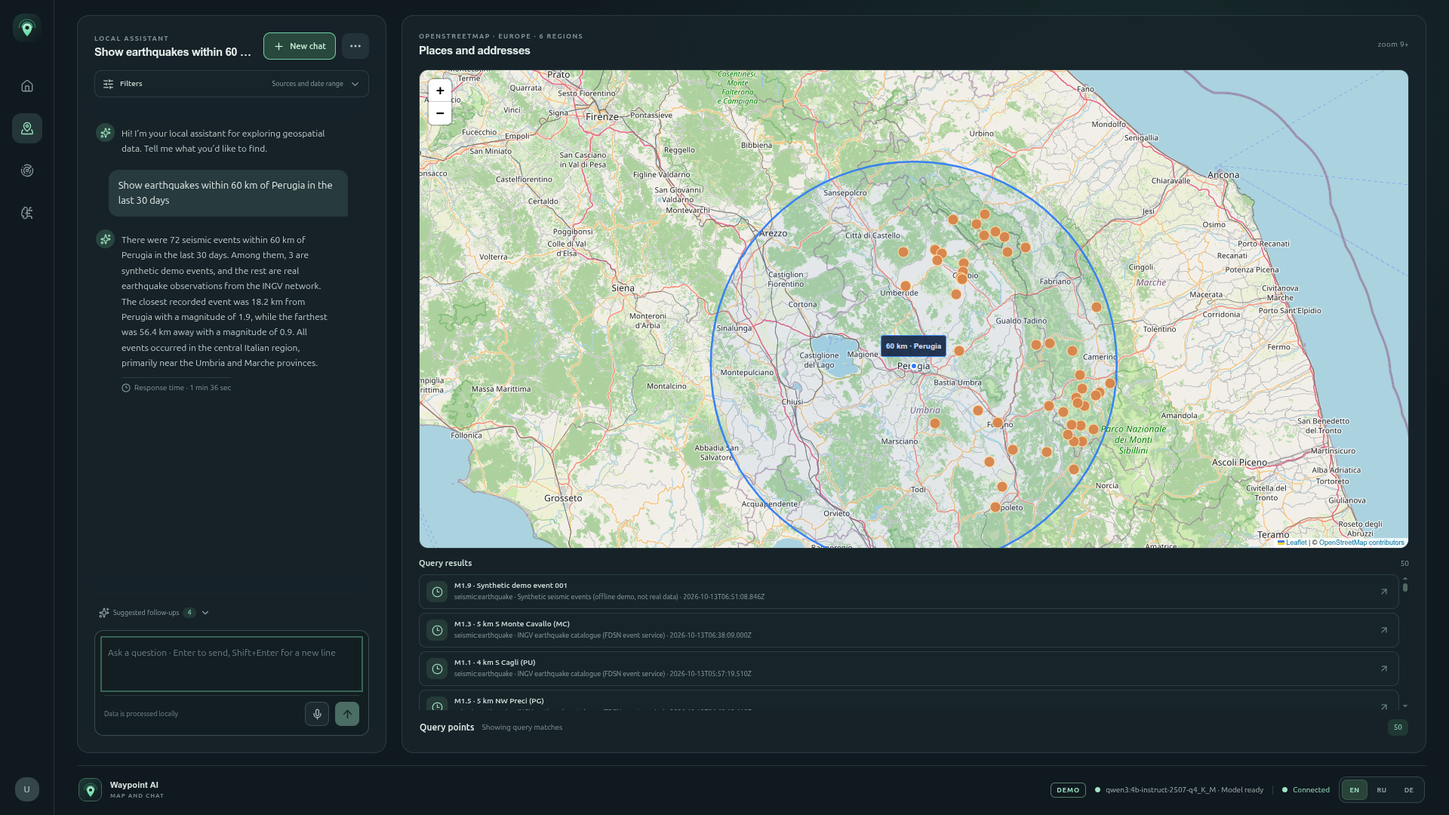
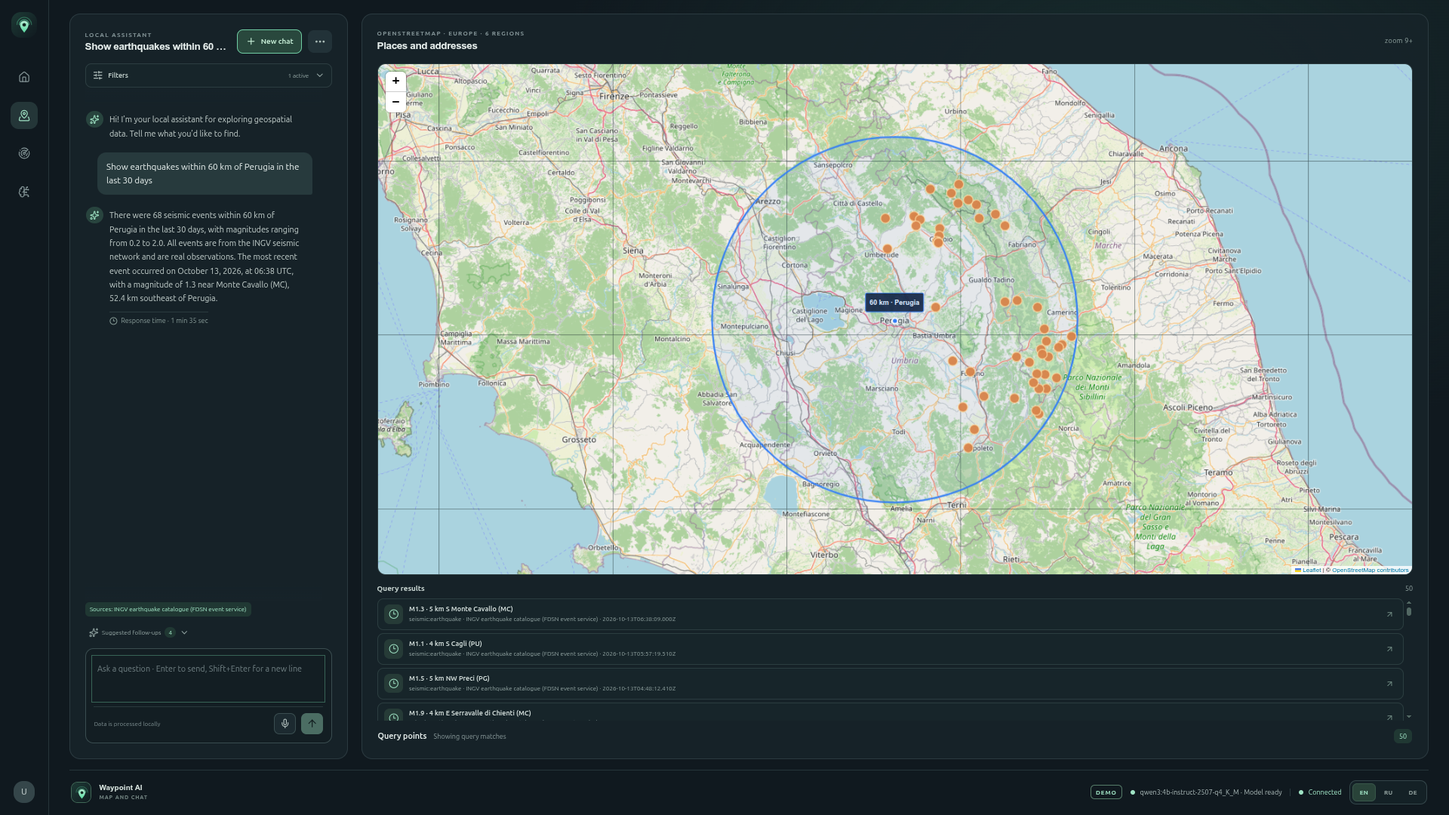
Lead the docs with grounded answers and list known issues

diff --git a/docs/code-review.md b/docs/code-review.md
@@ -1,10 +1,10 @@
-# Code review: Investigation Workspace
+# Known issues and fixes
 
-Status: review of the investigation feature diff (Phase 5). Two independent reviewers read the code: one covered the backend (security, data integrity, concurrency, contracts) and one the frontend (async state, provenance, accessibility). Every finding below was checked against the code before it was fixed or left open. Unrelated uncommitted work in the tree (the voice feature) was out of scope.
+This is the issue log for the event explorer and the parts of the assistant it touches: what was found while building and testing it, how each issue was fixed, and what is still open. Each entry was checked against the code before it was fixed or left open.
 
-Verification after the fixes: `npm test` passes 77 tests (8 skipped database tests), `npm run test:db` passes 8 PostgreSQL tests on a disposable database, `npm run typecheck` and `npm run build` pass without warnings, and a live INGV import ran successfully against the new HTTP code.
+Current verification: `npm test` and `npm run test:db` (PostgreSQL, disposable database) pass in CI together with `npm run typecheck` and `npm run build`; a live INGV import runs against the HTTP code.
 
-No Critical findings. No SQL injection was found: every value is a bind parameter and dynamic SQL fragments are constants. The external source URL comes only from an allowlisted environment value.
+No SQL injection was found: every value is a bind parameter and dynamic SQL fragments are constants. The external source URL comes only from an allowlisted environment value.
 
 ## High
 
@@ -18,14 +18,14 @@ No Critical findings. No SQL injection was found: every value is a bind paramete
 | # | Area and path | Issue | Impact | Resolution |
 |---|---|---|---|---|
 | M1 | Null revisions — `backend/src/sources/ingv/ingv.adapter.ts` | Events without `originId` got `revision: null`, and `NULL IS DISTINCT FROM NULL` is false. | Corrections to such events would never be stored. | **Fixed.** A content hash of the normalized fields is used as the revision. Test added. |
-| M2 | Interrupted imports — `backend/src/server.ts`, `backend/src/data/event-import.repository.ts` | A process exit during an import left the run `running`. | The unique "one running import" index blocked the source for up to 30 minutes. | **Fixed.** On startup, runs left `running` are marked failed with `interrupted`. The 30-minute stale rule stays as a backstop. |
+| M2 | Interrupted imports — `backend/src/server.ts`, `backend/src/data/event-import.repository.ts` | A process exit during an import left the run `running`. | The unique "one running import" index blocked the source for up to 30 minutes. | **Fixed.** The fetch phase has a 15-minute deadline, below the 30-minute stale limit. On startup, only runs older than the stale limit are marked `interrupted`, so a CLI import running next to the API is left alone. |
 | M3 | Body download timeout — `backend/src/sources/http.ts` | The response body was read after the retry loop. | A timeout while downloading a large body was recorded as `import_failed` and not retried. | **Fixed.** The body is read inside each attempt, so the existing retry and `upstream_timeout` mapping apply. Test added. |
 | M4 | Rate limiting behind a proxy — `backend/src/api/rate-limit.ts`, `backend/src/server.ts` | Limits are keyed on `request.ip`, and `trust proxy` was not configured. | Behind a reverse proxy every client shares one bucket. Setting `trust proxy` to `true` would make the limit spoofable. | **Fixed.** `TRUST_PROXY` env (default `false`, or a hop count 1–5; `true` is rejected). Documented in `.env.example`. |
 | M5 | Settlement lookup cost — `backend/src/data/investigation.repository.ts` | The case-insensitive name match could not use an index. | One query took 589 ms with a primary-key scan plan. | **Fixed.** New migration `20261013010000-add-settlement-name-indexes.cjs` adds partial expression indexes on settlement rows only. The query now lists its categories as literals so they match. Measured at 0.13 ms. The migration was tested with undo and redo. |
 | M6 | `/data/sources` coupling — `backend/src/data/source.repository.ts` | The source list now also queried `source_sync_runs`, inside a catch-all. | A failure in the sync lookup would return an empty source list to the existing assistant UI. | **Fixed.** The sync lookup has its own fallback, so sources are returned with `lastSync: null`. |
 | M7 | Malformed JSON — `backend/src/server.ts` | Body-parser errors went to the generic 500 handler. | Contract violation (400 documented) and noisy stack-trace logs. | **Fixed.** `backend/src/api/error-handler.ts` maps parse errors to `400 invalid_json` and oversize bodies to `413`. Test added. |
 | M8 | Source status freshness — `InvestigationWorkspace.tsx` | Sources were loaded once at app start, and a load failure was shown as "no sources imported". | Sync status and failed-import warnings were stale, and errors looked like an empty state. | **Fixed.** The page loads sources itself, reloads them on Refresh, and shows a distinct error state. A running import is labelled. |
-| M9 | Provenance fail-open — `EventTable.tsx`, `EventDetails.tsx`, `MapPanel.tsx` | An event whose source metadata was missing looked like ordinary data, and map markers had no provenance cue. | Synthetic or unknown-origin data could be mistaken for real observations. | **Fixed.** Unknown sources are tagged "Unverified" with a warning. Synthetic or unverified markers have a dashed outline. The investigation popup shows the source. |
+| M9 | Provenance fail-open — `EventTable.tsx`, `EventDetails.tsx`, `MapPanel.tsx` | An event whose source metadata was missing looked like ordinary data, and map markers had no provenance cue. | Synthetic or unknown-origin data could be mistaken for real observations. | **Fixed.** Unknown sources are tagged "Unverified" with a warning. Synthetic or unverified markers have a dashed outline. The event explorer popup shows the source. |
 | M10 | Accessibility — `EventTable.tsx`, `EventDetails.tsx`, `QueryBar.tsx`, `EventFilters.tsx`, `styles.css` | Invalid `aria-selected` on a plain table row. No focus-visible style. Details appeared silently below the table. The query input was `disabled` while running, which dropped focus. The filter group had no role. | Keyboard and screen-reader users lost selection state and focus. | **Fixed.** The row button carries `aria-current` and has a `:focus-visible` outline. Details headings receive focus and scroll into view. The input is `readOnly` with `aria-busy`. Filters use `role="group"`. |
 | M11 | Flash on refresh — `InvestigationWorkspace.tsx` | Every filter change cleared the table and map before the new page arrived. | Visible flicker and lost scroll position. | **Fixed.** Previous rows stay visible with an "updating…" note and `aria-busy` until the new page arrives. |
 
@@ -39,7 +39,7 @@ No Critical findings. No SQL injection was found: every value is a bind paramete
 | L4 | Empty query values — `backend/src/api/investigation-params.ts` | `minMagnitude=` was coerced to 0, and `bbox=1,2,,4` was accepted. | **Fixed.** Empty values are treated as absent and empty bbox parts are rejected. Tests added. |
 | L5 | Contract gaps — `contracts/openapi.yaml` | `fallbackReason` in the 422 body was untyped, and 400 `invalid_json`, 415, and the generic 500 were undocumented. | **Fixed** and types regenerated. |
 | L6 | Error messages — `frontend/src/features/investigation/format.ts`, `InvestigationWorkspace.tsx` | Some server codes fell through to "Could not load data", and the 422 `fallbackReason` was ignored. | **Fixed.** |
-| L7 | "DEMO RECORD" label — `frontend/src/widgets/map/MapPanel.tsx` | The assistant card label changed to "RECORD". The reviewer asked whether this removed a provenance cue. | **No change needed.** Records are no longer demo-only. The same card shows the source label, and the synthetic source's label says "offline demo, not real data". |
+| L7 | "DEMO RECORD" label — `frontend/src/widgets/map/MapPanel.tsx` | The assistant card label changed to "RECORD", which could look like a lost provenance cue. | **No change needed.** Records are no longer demo-only. The same card shows the source label, and the synthetic source's label says "offline demo, not real data". |
 | L8 | Cursor precision — `backend/src/data/investigation.repository.ts` | The cursor carries milliseconds while `timestamptz` stores microseconds. | **Open (latent).** Imported data is millisecond-precise. Rows written with sub-millisecond times by a future source could be skipped at a page boundary. Fix by carrying microseconds in the cursor when such a source is added. |
 | L9 | Partial-failure counts — `backend/src/services/event-import.ts` | If a later upsert batch fails, earlier committed batches are not reflected in the failed run's counts. | **Open.** Data stays consistent and the next run counts those rows as skipped. Per-batch count updates would make the audit row exact. |
 | L10 | Cooldown race — `backend/src/services/event-import.ts` | The cooldown check and run start are not atomic. | **Open, bounded.** The partial unique index still prevents two concurrent running imports; at worst two sequential imports run closer together than the cooldown. |
@@ -67,7 +67,7 @@ No Critical findings. No SQL injection was found: every value is a bind paramete
 
 ## End-to-end QA pass
 
-After the review, the feature was exercised end to end: 30 natural-language queries against the live model (EN/RU/DE, exonyms, selections, limits, off-topic text, prompt injection), the same parser with the model unavailable, concurrent query and chat requests, chat flows over the WebSocket, and 29 browser scenarios (states, errors, pagination, keyboard, languages, mobile width, regressions).
+The feature was exercised end to end: 30 natural-language queries against the live model (EN/RU/DE, exonyms, selections, limits, off-topic text, prompt injection), the same parser with the model unavailable, concurrent query and chat requests, chat flows over the WebSocket, and 29 browser scenarios (states, errors, pagination, keyboard, languages, mobile width, regressions).
 
 | # | Severity | Finding | Resolution |
 |---|---|---|---|
@@ -79,7 +79,20 @@ After the review, the feature was exercised end to end: 30 natural-language quer
 | Q6 | Low | With the model unavailable, the rule parser treated "weather in Rome" as an event search. | **Fixed.** Rules require an event word or a numeric/selection constraint. |
 | Q7 | Low | The model mapped "this week" to 720 hours. | **Fixed** by explicit period rules in the prompt; re-verified (168 h). |
 | Q8 | Low | German period labels and counters stayed in English. | **Fixed** with explicit three-language strings. |
-| Q9 | Low | On narrow screens the investigation panel scrolls inside the page. | **Open.** Functional; layout polish. |
+| Q9 | Low | On narrow screens the event explorer panel scrolls inside the page. | **Open.** Functional; layout polish. |
 | Q10 | Info | Chat turns that need two model calls take 70–130 s on this CPU-only machine; a client that disconnects early can leave Ollama busy for the next request. | **Open (environment).** Matches L12; a GPU or a smaller context reduces latency. The query endpoint itself takes 8–12 s. |
 
 Results after the fixes: 79 unit and route tests and 8 PostgreSQL tests pass; typecheck and build pass; the live query matrix shows no validation or safety failures; all browser scenarios pass.
+
+## Hardening pass
+
+| # | Severity | Finding | Resolution |
+|---|---|---|---|
+| R1 | Medium | Voice input relays audio to a paid provider, and sessions were limited only to one per connection. Many connections from one client could run up the provider bill. | **Fixed.** `backend/src/voice/voice-budget.ts`: a process-wide cap on open sessions plus a per-client hourly budget of sessions and reserved seconds (`VOICE_*` settings). Refusals use the `rate_limited` voice error. Forwarded addresses count only with `TRUST_PROXY`. Tests added. |
+| R2 | Medium | `model/ollama/scripts/serve.sh` cleared `OLLAMA_VULKAN` before reading it, so the flag from the environment was ignored. | **Fixed.** Flags are read first, then cleared. |
+| R3 | Medium | PostgreSQL logic (radius search, keyset pagination, place linking, approximate city lookup) ran only locally, and generated OpenAPI types could drift from the contract unnoticed. | **Fixed.** CI starts PostgreSQL 17, runs `npm run test:db`, and fails when `contracts:types` changes the generated file. |
+| R4 | Low | "12 days in Roma" was read as 2 days. | **Fixed.** Day counts take up to two digits and are capped at the 7-day limit. Test added. |
+| R5 | Low | Numbers filled from the user text were merged after validation, so a filled minimum magnitude could exceed the model's maximum. | **Fixed.** The merged arguments are validated again; on failure the model's arguments are kept. Test added. |
+| R6 | Low | Every capitalized word in a trip request became a sequential database lookup. | **Fixed.** At most 8 candidates, looked up in parallel and once per turn. Test added. |
+| R7 | Low | Smaller gaps: the realtime connect timer kept running after an abort; source responses were buffered without a size limit; the chat's category filter did not reach event searches. | **Fixed.** Timer cleared on abort; bodies above 20 MB are rejected as `upstream_malformed`; the scope category narrows event searches. Tests added where the behaviour is observable. |
+| R8 | Medium | The chat model saw 8 of 68 matching events and summarized them as the whole result (a wrong magnitude range), and it guessed a compass direction from the search center. | **Fixed.** The count query also returns the magnitude range over every match, the tool marks the listed events as a sample, and the server computes `directionFromCenter`; the prompt requires these values. Tests added, including PostgreSQL. |

diff --git a/README.md b/README.md
@@ -1,6 +1,8 @@
 # Waypoint AI
 
-Waypoint AI is a self-hosted geospatial assistant demo. A local LLM turns natural-language requests into validated, read-only backend searches: places from OpenStreetMap, multi-city itineraries with road routes, and public earthquake events by place, radius, and period. Every name, coordinate, and route on the map comes from the database or the routing service, not from the model.
+Waypoint AI is a self-hosted map assistant built around one rule: **the model cannot invent a fact**. A local LLM turns natural-language requests into validated, read-only backend searches, and every place name, coordinate, and route on the map comes from verified database rows or the routing service. When the model is unavailable, a rule-based parser takes over and the UI says so.
+
+It covers OpenStreetMap places, multi-city itineraries with road routes, and public earthquake data searched by place, radius, and period in a separate event explorer.
 
 ![Waypoint AI: the chat finds earthquakes within 60 km of Perugia and draws the search radius on the map](docs/media/waypoint-ai-route-chat.png)
 
@@ -20,8 +22,8 @@ The model runs through a locally managed Ollama service. It can request a small 
 - Deterministic itineraries for 1–7 days across up to five cities ("Rome and Florence for 5 days"): stops come from verified place rows, each day gets its own road route, and each city's visited area is outlined on the map.
 - Event search from the chat: "earthquakes within 60 km of Perugia this month" resolves the settlement on the server, runs a bounded radius query, and draws the circle on the map.
 - Explicit empty, clarification, model-unavailable, and route-unavailable states.
-- Optional live voice dictation (demo, disabled by default). See [Voice input](#voice-input-demo-opt-in).
-- An investigation workspace for public event data: imported INGV earthquakes linked to nearby OSM places, a bounded REST API with keyset pagination, event details in a modal, and natural-language queries in which the model only fills in validated search filters, with a rule-based fallback. See [Investigation workspace](#investigation-workspace-demo).
+- Optional live voice dictation through OpenAI (disabled by default; the only feature that sends data off the machine). See [Voice input](#voice-input-demo-opt-in).
+- An event explorer for public earthquake data: imported INGV events linked to nearby OSM places, a bounded REST API with keyset pagination, event details in a modal, and natural-language queries in which the model only fills in validated search filters, with a rule-based fallback. See [Event explorer](#event-explorer-demo).
 
 The included OpenStreetMap extracts cover selected regions in Germany, Poland, Romania, France, Italy, and Spain; coverage is not complete in every country. Event records are imported on demand from INGV; an optional synthetic event set for offline demos is clearly labelled.
 
@@ -65,7 +67,7 @@ npm run model:serve
 npm run model:pull
 ```
 
-Optionally import recent earthquake events for the investigation workspace (requires network access to INGV):
+Optionally import recent earthquake events for the event explorer (requires network access to INGV):
 
 ```bash
 npm run data:import:events -- --source ingv-fdsn --days 7
@@ -77,17 +79,17 @@ Then start the app:
 npm run dev
 ```
 
-The frontend runs at `http://127.0.0.1:5173` (pages: `/`, `/map`, `/investigation`, `/model`); the API health endpoint is `http://127.0.0.1:8000/api/v1/healthz`. Model weights, Ollama runtime files, map extracts, and local environment values are excluded from Git. Setup scripts do not run automatically when the app starts. See [model configuration](docs/local-model-setup.md) for environment settings.
+The frontend runs at `http://127.0.0.1:5173` (pages: `/`, `/map`, `/investigation` for the event explorer, `/model`); the API health endpoint is `http://127.0.0.1:8000/api/v1/healthz`. Model weights, Ollama runtime files, map extracts, and local environment values are excluded from Git. Setup scripts do not run automatically when the app starts. See [model configuration](docs/local-model-setup.md) for environment settings.
 
 ## Data and privacy boundaries
 
-The browser talks only to the backend. The backend is the only component that connects to Ollama and PostgreSQL. Model tool calls are validated, read-only, and bounded. Conversation retention and the single-workspace demo limitations are documented in the [backend guide](docs/backend.md).
+The browser talks only to the backend. The backend is the only component that connects to Ollama and PostgreSQL. Model tool calls are validated, read-only, and bounded. Apart from the opt-in voice input, chat text never leaves the machine; the routing provider receives coordinates only. Conversation retention and the single-workspace demo limitations are documented in the [backend guide](docs/backend.md).
 
 OpenStreetMap attribution and source metadata are shown in the app. The optional map tile and routing providers are separate external services; routing sends coordinates only. The demo does not provide user authentication or multi-workspace authorization and should not be used with sensitive data.
 
-## Investigation workspace (demo)
+## Event explorer (demo)
 
-The **Investigation** page (radar icon) searches imported events by period, magnitude, source, and radius; shows each event's provenance, licence, last sync, and nearby OpenStreetMap places; and accepts natural-language queries such as "events within 30 km of Norcia in the last 3 days".
+The **Event explorer** page (radar icon) searches imported events by period, magnitude, source, and radius; shows each event's provenance, licence, last sync, and nearby OpenStreetMap places; and accepts natural-language queries such as "events within 30 km of Norcia in the last 3 days".
 
 - **Data source.** [INGV](https://terremoti.ingv.it/en) earthquake catalogue (FDSN event service, CC BY 4.0), imported manually. Imports are idempotent, audited in `source_sync_runs`, and retried safely. For offline demos, `--source demo-seismic-synthetic` loads generated events labelled as synthetic.
 - **API.** `GET /api/v1/investigations/events`, `GET /events/{id}`, `GET /entities/{id}`, `POST /query`, and an import trigger that is disabled by default. See [`contracts/openapi.yaml`](contracts/openapi.yaml).
@@ -102,11 +104,16 @@ The **Investigation** page (radar icon) searches imported events by period, magn
 | `INVESTIGATION_IMPORT_ENABLED` | `false` | Enables `POST /investigations/import/{sourceId}`; there is no authentication |
 | `TRUST_PROXY` | `false` | Reverse-proxy hop count for per-client rate limits |
 
-Design and review: [extension plan](docs/extension-plan.md), [technical decisions](docs/technical-decisions.md), [code review](docs/code-review.md), [demo and review guide](docs/demo-and-review.md).
+Start with these two documents:
+
+- [Technical decisions](docs/technical-decisions.md): how INGV, USGS, and EMSC compare on licence, coverage, and response format, why INGV was chosen, and how its fields map to the schema.
+- [Demo and review guide](docs/demo-and-review.md): what to try, what each request should return, and where the safety boundaries are.
+
+Also: [extension plan](docs/extension-plan.md) and [known issues and fixes](docs/code-review.md).
 
 ## Voice input (demo, opt-in)
 
-Set `VOICE_INPUT_ENABLED=true` and `OPENAI_API_KEY` in `.env` to show a microphone button in the chat composer. The backend relays audio to OpenAI Realtime transcription, and recognized text appears in the composer as you speak. **Audio leaves the local machine while you record**, and the UI shows a notice during recording. The API key stays on the backend. See the [voice protocol](contracts/websocket.md#voice-input-demo-opt-in) and the [stack decision](docs/stack-decision.md#voice-input-decision).
+Voice input is the only feature that sends data to an external AI service, and it is **off by default**; model inference and chat text stay local, and the routing provider receives coordinates only. Set `VOICE_INPUT_ENABLED=true` and `OPENAI_API_KEY` in `.env` to show a microphone button in the chat composer. The backend relays audio to OpenAI Realtime transcription, and recognized text appears in the composer as you speak. **Audio leaves the local machine while you record**, and the UI shows a notice during recording. The API key stays on the backend, and spending is capped: a process-wide limit on open sessions plus an hourly budget of sessions and recording seconds per client (`VOICE_MAX_CONCURRENT_SESSIONS`, `VOICE_SESSIONS_PER_CLIENT_PER_HOUR`, `VOICE_SECONDS_PER_CLIENT_PER_HOUR`). See the [voice protocol](contracts/websocket.md#voice-input-demo-opt-in) and the [stack decision](docs/stack-decision.md#voice-input-decision).
 
 ## Development checks
 

diff --git a/docs/extension-plan.md b/docs/extension-plan.md
@@ -1,6 +1,6 @@
 # Extension plan: Investigation Workspace
 
-Status: **implemented** (demo). This was the Phase 1 audit and plan; the outcome is described in [technical decisions](technical-decisions.md), [code review](code-review.md), and the [demo and review guide](demo-and-review.md). Deviations from this plan are noted in those documents.
+Status: **implemented** (demo). This was the initial audit and plan; the outcome is described in [technical decisions](technical-decisions.md), [known issues and fixes](code-review.md), and the [demo and review guide](demo-and-review.md). Deviations from this plan are noted in those documents.
 
 The goal is to extend WaypointAI into a small investigation workspace for open-source data. It should be one working vertical slice: a public external source is imported into PostgreSQL, exposed through a validated REST API, queried in natural language through allowlisted tools, and shown in the existing React map UI with provenance.
 
@@ -115,7 +115,7 @@ All claims below come from source code and the local database, not from the READ
 
 ### External source
 
-Selected in Phase 2: **INGV FDSN event service** (Italy, CC BY 4.0), with **USGS** as an optional second adapter. EMSC was rejected because commercial use needs written permission. See [technical-decisions.md](technical-decisions.md) for the comparison, measured coverage, and verified response format.
+Selected source: **INGV FDSN event service** (Italy, CC BY 4.0), with **USGS** as an optional second adapter. EMSC was rejected because commercial use needs written permission. See [technical-decisions.md](technical-decisions.md) for the comparison, measured coverage, and verified response format.
 
 Why seismic events fit:
 
@@ -187,7 +187,7 @@ record_place_links      record_id FK → records ON DELETE CASCADE,
 Design notes:
 
 - `records.id` becomes a deterministic `"<sourceId>:<externalId>"`, so re-imports are upserts, not duplicates.
-- Magnitude and depth stay in `attributes` JSONB at first. If magnitude filtering becomes a hot path, promote it to a typed column or add an expression index; decide in Phase 2 after measuring.
+- Magnitude and depth stay in `attributes` JSONB at first. If magnitude filtering becomes a hot path, promote it to a typed column or add an expression index; decide after measuring.
 - `source_revision` lets an import skip unchanged rows and record revisions (for example, a revised magnitude). INGV has no update timestamp, so the revision is `originId:version`.
 - `error_code` stores a short code, never raw upstream bodies or credentials.
 - No PostGIS: radius queries use the existing bbox prefilter plus haversine pattern. Reconsider at larger volumes.

diff --git a/docs/frontend.md b/docs/frontend.md
@@ -2,7 +2,7 @@
 
 ## Stack and design
 
-The application uses React, TypeScript, and Vite, with Leaflet behind the independent `widgets/map/` adapter. The map uses bundled Natural Earth country polygons to outline countries represented by current place results. It automatically requests an optimized road trip through up to eight places from the most represented country. The backend proxies coordinates to an OSRM-compatible service configured by `ROUTING_BASE_URL`; only coordinates are sent, never chat text, place names, or IDs. The default public OSRM demo endpoint is for development and has no availability guarantee; production should use an approved self-hosted endpoint. The Waypoint AI workspace focuses on requests, filters, evidence, and map results. Reference media is domain context, not a UI template. The demo requests visible OSM tiles from the browser and displays attribution. Configure `VITE_MAP_TILES_URL` to use another provider or disable the basemap. In offline mode, the country outlines remain available, but automatic road routes require a reachable routing endpoint. See [the stack decision](stack-decision.md).
+The application uses React, TypeScript, and Vite, with Leaflet behind the independent `widgets/map/` adapter. The map uses bundled Natural Earth country polygons to outline countries represented by current place results. It automatically requests an optimized road trip through up to eight places from the most represented country. The backend proxies coordinates to an OSRM-compatible service configured by `ROUTING_BASE_URL`; only coordinates are sent, never chat text, place names, or IDs. The default public OSRM demo endpoint is for development and has no availability guarantee; production should use an approved self-hosted endpoint. The Waypoint AI workspace focuses on requests, filters, evidence, and map results. The demo requests visible OSM tiles from the browser and displays attribution. Configure `VITE_MAP_TILES_URL` to use another provider or disable the basemap. In offline mode, the country outlines remain available, but automatic road routes require a reachable routing endpoint. See [the stack decision](stack-decision.md).
 
 ## Source structure
 

diff --git a/docs/technical-decisions.md b/docs/technical-decisions.md
@@ -1,6 +1,6 @@
 # Technical decisions: Investigation Workspace
 
-Status: **implemented** (demo; decided in Phase 2). Builds on the audit in [extension-plan.md](extension-plan.md). Source behavior below was checked with live requests on 2026-10-13; terms were read from the providers' own pages on the same date.
+Status: **implemented** (demo). Builds on the audit in [extension-plan.md](extension-plan.md). Source behavior below was checked with live requests on 2026-10-13; terms were read from the providers' own pages on the same date.
 
 ## 1. External data source
 
@@ -33,7 +33,7 @@ Measured with a Central Italy box (lat 41–44.5, lon 10–15), which matches th
 - **No account, documented standard API, GeoJSON output, radius and magnitude filters on the server.**
 - **No personal data.** Events describe natural phenomena, not people.
 
-**Second adapter (optional, Phase 3 stretch): USGS.** Public domain and global. Adding it after INGV proves that a new source is one adapter, not a redesign. It is not the demo source because European coverage below magnitude 2.5 is sparse.
+**Second adapter (optional): USGS.** Public domain and global. Adding it after INGV proves that a new source is one adapter, not a redesign. It is not the demo source because European coverage below magnitude 2.5 is sparse.
 
 **Rejected: EMSC.** Good coverage, but the commercial-use clause makes it a poor default for client work.
 

diff --git a/docs/demo-and-review.md b/docs/demo-and-review.md
@@ -1,6 +1,6 @@
 # Investigation Workspace: demo and technical review guide
 
-Status: **demo**. This document describes what is implemented in the repository. Future work is marked as such. Related documents: [extension plan](extension-plan.md), [technical decisions](technical-decisions.md), [code review](code-review.md), [backend guide](backend.md), [frontend guide](frontend.md).
+Status: **demo**. This document describes what is implemented in the repository. Future work is marked as such. Related documents: [extension plan](extension-plan.md), [technical decisions](technical-decisions.md), [known issues and fixes](code-review.md), [backend guide](backend.md), [frontend guide](frontend.md).
 
 ## 1. Demo script (2–3 minutes)
 

diff --git a/ai-assistant-outline.md b/ai-assistant-outline.md
@@ -14,4 +14,4 @@ Waypoint AI is a self-hosted geospatial assistant demo. The model interprets a r
 - [Demo rehearsal](docs/demo-rehearsal.md)
 - [OpenStreetMap data plan](docs/data-acquisition-plan.md)
 
-Reference media is used only for general domain context. Demo data must remain synthetic, and geographic place data must retain source, license, and snapshot attribution. External integrations belong behind explicit backend allowlists.
+Demo data must remain synthetic, and geographic place data must retain source, license, and snapshot attribution. External integrations belong behind explicit backend allowlists.
